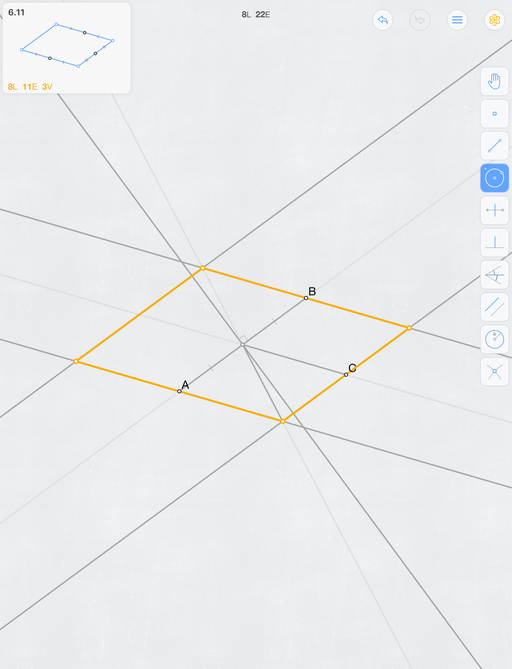
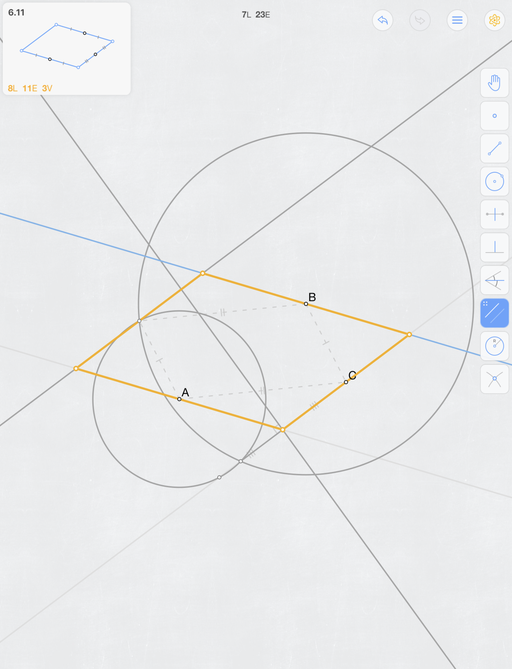
Update 6.11 7L Solution.

diff --git a/README.md b/README.md
@@ -14,6 +14,7 @@
 - [v1版本链接(全最优解更新完成)](https://mathsfans.github.io/Euclidea/v1/)  
 
 重要解法更新(v1版本)：
+- (2019-03-12) 6.11 7L新纪录解法。
 - (2018-12-15) 12.8 13E新纪录解法。
 - (2018-12-08) 根据iOS 4.12版增加8个新问题并重排题目顺序，更新最优解法(包含所有新题目，和6.11 10E解法)。 
 - (2018-04-18) 3.10 7E新纪录解法。 
@@ -46,6 +47,7 @@ The solution pages:
 - [v1 (all optimal solutions, descriptions in Chinese)](https://mathsfans.github.io/Euclidea/v1/)  
 
 Version history (v1 version)：
+- (2019-03-12) New record update: 6.11 7L. 
 - (2018-12-15) New record update: 12.8 13E. 
 - (2018-12-08) Add 8 new problems and re-order all problems according to iOS v4.12, with updated optimal solutions (including all new problems and 6.11 10E). 
 - (2018-04-18) New record update: 3.10 7E. 

diff --git a/v1/Euclidea3.md b/v1/Euclidea3.md
@@ -278,8 +278,8 @@
 解：[4E，作出等腰三角形底边，以此作第二个等腰三角形来达到对称。](solving/6.10.2.png)  
 注：[3V，依次作出三个解即可。](solving/6.10.3.png)  
 
-- 6.11 由三个中点确定的平行四边形 *8L 10E 3V* ⭐  
-解：[8L，先作出平行四边形的中点，然后依次作出边。](solving/6.11.1.png)  
+- 6.11 由三个中点确定的平行四边形 *7L 10E 3V* ⭐  
+解：[7L，利用定半径圆工具和中垂线找到平行四边形的一个顶点，然后用平行线工具依次作出四条边。](solving/6.11.1.png)  
 解：[10E，利用做平行线的方法，优化公用圆。](solving/6.11.2.png)  
 注：[3V，依次作出三个解即可。](solving/6.11.3.png)  
 
